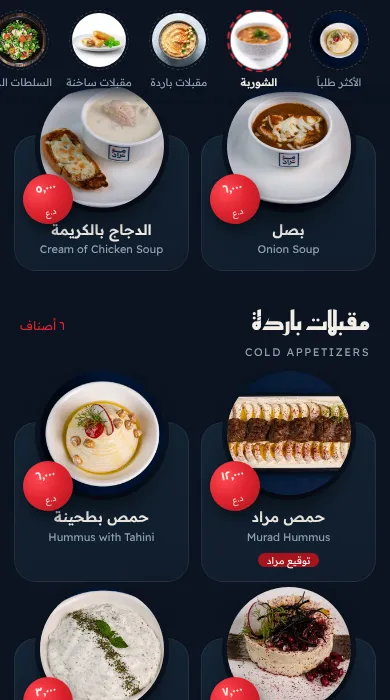
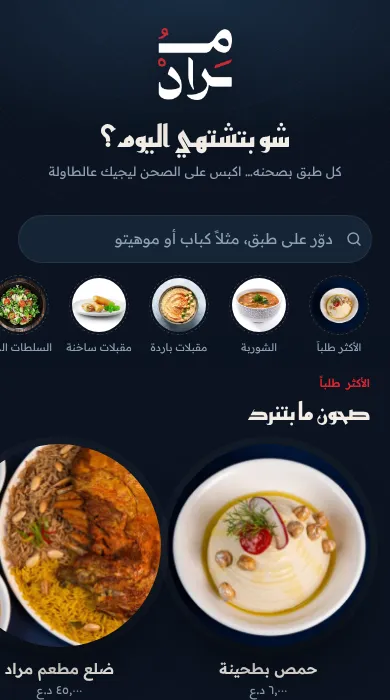
Plates demo: add search and show the full photo on tap
- Sticky search bar above the category rail. Matches dish names and
  section names in Arabic or English (ignores diacritics and alef/ya/ta
  marbuta variants), hides empty sections, shows a result count and an
  empty state.
- Tapping a dish now opens the whole, uncropped photo at full width: it
  arrives as a spinning circular plate, then opens up into the full image.

Claude-Session: https://claude.ai/code/session_01Ec21tTVKAZrGGPPNqkSPjV

diff --git a/demo/plates.html b/demo/plates.html
@@ -54,7 +54,7 @@ button{font:inherit;color:inherit;background:none;border:0;padding:0;cursor:poin
 /* sections */
 .group{margin:30px 20px 0;display:flex;align-items:center;gap:12px;color:var(--mute);font-size:12px;letter-spacing:2px}
 .group::before,.group::after{content:"";flex:1;height:1px;background:var(--line)}
-section.sec{padding:0 14px;scroll-margin-top:110px}
+section.sec{padding:0 14px;scroll-margin-top:170px}
 .sec-h{padding:22px 6px 0;display:flex;align-items:baseline;justify-content:space-between;gap:10px}
 .sec-h h3{font-family:var(--display);font-weight:700;font-size:26px;margin:0}
 .sec-h em{font-style:normal;color:var(--mute);font-size:11px;letter-spacing:1.5px;text-transform:uppercase}
@@ -82,22 +82,38 @@ section.sec{padding:0 14px;scroll-margin-top:110px}
 .foot{text-align:center;color:var(--mute);font-size:12px;padding:36px 20px calc(40px + env(safe-area-inset-bottom))}
 /* detail: the plate is served */
 .veil{position:fixed;inset:0;background:#05090fcc;backdrop-filter:blur(6px);-webkit-backdrop-filter:blur(6px);opacity:0;pointer-events:none;transition:opacity .35s;z-index:20}
-.serve{position:fixed;inset:auto 0 0;max-width:520px;margin:0 auto;z-index:21;padding:0 22px calc(28px + env(safe-area-inset-bottom));text-align:center;pointer-events:none}
-.serve .bigpl{width:min(76vw,330px);aspect-ratio:1;margin:0 auto -40px;border-radius:50%;overflow:hidden;box-shadow:0 40px 60px -20px #000,0 0 0 10px #ffffff10;transform:translateY(60vh) rotate(160deg) scale(.6);transition:transform .7s cubic-bezier(.2,.9,.25,1.05)}
-.serve .bigpl img{width:100%;height:100%;object-fit:cover;transform:scale(1.3)}
-.serve .card{background:var(--card);border:1px solid var(--line);border-radius:26px;padding:56px 20px 20px;transform:translateY(100%);transition:transform .45s cubic-bezier(.2,.8,.2,1)}
+.serve{position:fixed;inset:auto 0 0;max-width:560px;margin:0 auto;z-index:21;max-height:94svh;overflow-y:auto;scrollbar-width:none;padding:0 10px calc(10px + env(safe-area-inset-bottom));pointer-events:none}
+.serve::-webkit-scrollbar{display:none}
+/* the plate arrives spinning as a circle, then opens up into the whole, uncropped photo */
+.photo{position:relative;border-radius:22px;overflow:hidden;background:#0B1320;box-shadow:0 30px 50px -20px #000;
+  clip-path:circle(30% at 50% 50%);transform:translateY(55vh) rotate(-140deg) scale(.7);
+  transition:transform .4s .1s cubic-bezier(.5,0,.75,0),clip-path .25s}
+.photo img{display:block;width:100%;height:auto}
+.open .photo{transform:none;clip-path:circle(75% at 50% 50%);transition:transform .65s cubic-bezier(.2,.9,.25,1.05),clip-path .55s .5s cubic-bezier(.6,0,.2,1)}
+.serve .card{position:relative;margin-top:10px;background:var(--card);border:1px solid var(--line);border-radius:24px;padding:20px;text-align:center;transform:translateY(120%);transition:transform .45s cubic-bezier(.2,.8,.2,1)}
+.serve .card.solo{padding-top:52px}
 .serve h4{font-family:var(--display);font-size:26px;margin:0}
 .serve .en{color:var(--mute);font-size:13px;margin-top:2px}
 .serve .ds{color:#C9D3DC;font-size:14px;line-height:1.7;margin:12px 0 0}
 .serve .row{display:flex;align-items:center;justify-content:space-between;margin-top:18px;gap:10px}
 .serve .pr{font-size:22px;font-weight:600}.serve .pr i{font-style:normal;font-size:13px;color:var(--mute);margin-inline-start:4px}
 .add{background:var(--red);color:#fff;border-radius:30px;padding:12px 20px;font-weight:600;font-size:14px}
-.x{position:absolute;top:12px;inset-inline-start:12px;width:34px;height:34px;border-radius:50%;background:#ffffff14;display:grid;place-items:center;font-size:18px;line-height:1}
+.x{position:absolute;z-index:2;top:12px;inset-inline-start:12px;width:36px;height:36px;border-radius:50%;background:#0B1320b3;backdrop-filter:blur(6px);-webkit-backdrop-filter:blur(6px);display:grid;place-items:center;font-size:20px;line-height:1;color:#fff}
 .open .veil{opacity:1;pointer-events:auto}
 .open .serve{pointer-events:auto}
-.open .serve .bigpl{transform:none}
 .open .serve .card{transform:none}
-.serve .card{position:relative}
+/* search */
+[hidden]{display:none!important}
+.search{margin:0 18px 12px;display:flex;align-items:center;gap:10px;background:var(--card);border:1px solid var(--line);border-radius:26px;padding:0 8px 0 14px;height:48px;transition:border-color .2s}
+.search:focus-within{border-color:var(--red)}
+.search svg{width:18px;height:18px;stroke:var(--mute);fill:none;stroke-width:2;stroke-linecap:round;flex:none}
+.search input{flex:1;min-width:0;height:100%;background:none;border:0;outline:none;color:var(--cream);font:inherit;font-size:15px}
+.search input::placeholder{color:var(--mute)}
+.search input::-webkit-search-cancel-button{display:none}
+.search button{width:32px;height:32px;border-radius:50%;background:#ffffff14;font-size:17px;line-height:1;display:grid;place-items:center;flex:none}
+.found{padding:2px 20px 0;color:var(--mute);font-size:13px}
+.empty{text-align:center;color:var(--mute);padding:50px 30px;font-size:15px;line-height:1.8}
+.empty b{display:block;color:var(--cream);font-family:var(--display);font-size:22px;margin-bottom:4px}
 .toast{position:fixed;bottom:calc(20px + env(safe-area-inset-bottom));left:50%;transform:translate(-50%,120px);background:var(--cream);color:var(--cloth);padding:10px 18px;border-radius:30px;font-size:13px;font-weight:600;transition:transform .35s;z-index:30}
 .toast.on{transform:translate(-50%,0)}
 button:focus-visible{outline:2px solid var(--red);outline-offset:3px}
@@ -111,8 +127,13 @@ button:focus-visible{outline:2px solid var(--red);outline-offset:3px}
     <h1>شو بتشتهي اليوم؟</h1>
     <p>كل طبق بصحنه… اكبس على الصحن ليجيك عالطاولة</p>
   </header>
-  <nav class="rail"><div class="rail-in" id="rail"></div></nav>
+  <nav class="rail">
+    <div class="search"><svg viewBox="0 0 24 24" aria-hidden="true"><circle cx="11" cy="11" r="7"/><path d="M20 20l-3.5-3.5"/></svg><input id="q" type="search" placeholder="دوّر على طبق، مثلاً كباب أو موهيتو" autocomplete="off" aria-label="ابحث بالمنيو"><button id="qx" hidden aria-label="امسح البحث">×</button></div>
+    <div class="rail-in" id="rail"></div>
+  </nav>
+  <div class="found" id="found" hidden></div>
   <div id="list"></div>
+  <div class="empty" id="empty" hidden><b>ما لقينا هالطبق</b>جرّب اسم تاني، أو اكتبه بالإنجليزي</div>
   <div class="foot">الأسعار بالدينار العراقي · @murad.restaurant</div>
 </div>
 <div class="veil" id="veil"></div>
@@ -124,8 +145,9 @@ const $ = s => document.querySelector(s), E = MU.esc;
 let M;
 const GN = {kitchen: 'المطبخ', cafe: 'الكافيه', sweet: 'الحلو والأركيلة', feast: 'ولائم مراد'};
 const seal = p => p ? `<span class="seal">${MU.num(p)}<i>د.ع</i></span>` : `<span class="seal ask">حسب<br>الطلب</span>`;
+const norm = s => String(s || '').toLowerCase().replace(/[ً-ْـ]/g, '').replace(/[أإآ]/g, 'ا').replace(/[ىی]/g, 'ي').replace(/ة/g, 'ه').replace(/\s+/g, ' ');
 function dish(it, small) {
-  return `<button class="dish${it.i ? '' : ' nophoto'}" data-k="${it.key}">${it.i ? `<span class="pl"><img src="${it.i}" alt="" loading="lazy"></span>` : ''}${seal(it.p)}${it.s && !small ? '<span class="sig">توقيع مراد</span>' : ''}<b>${E(it.ar)}</b><small>${E(it.en)}</small></button>`;
+  return `<button class="dish${it.i ? '' : ' nophoto'}" data-k="${it.key}" data-q="${E(norm(it.ar + ' ' + it.en + ' ' + it.sec.ar + ' ' + it.sec.en))}">${it.i ? `<span class="pl"><img src="${it.i}" alt="" loading="lazy"></span>` : ''}${seal(it.p)}${it.s && !small ? '<span class="sig">توقيع مراد</span>' : ''}<b>${E(it.ar)}</b><small>${E(it.en)}</small></button>`;
 }
 function render() {
   $('#rail').innerHTML = `<button class="cat" data-t="best"><span class="disc"><img src="${M.best[0].i}" alt=""></span><span>الأكثر طلباً</span></button>` +
@@ -140,22 +162,40 @@ function render() {
   });
   $('#list').innerHTML = h;
   document.querySelectorAll('[data-k]').forEach(b => b.onclick = () => serve(b.dataset.k));
-  document.querySelectorAll('.cat').forEach(c => c.onclick = () => { const el = document.getElementById(c.dataset.t); scrollTo({top: el.offsetTop - 96, behavior: 'smooth'}); });
+  document.querySelectorAll('.cat').forEach(c => c.onclick = () => { const el = document.getElementById(c.dataset.t); scrollTo({top: el.offsetTop - 165, behavior: 'smooth'}); });
   const io = new IntersectionObserver(es => es.forEach(e => { if (!e.isIntersecting) return;
     document.querySelectorAll('.cat').forEach(c => c.classList.toggle('on', c.dataset.t === e.target.id));
     const on = $('.cat.on'); on && on.scrollIntoView({inline: 'center', block: 'nearest', behavior: 'smooth'});
-  }), {rootMargin: '-120px 0px -70% 0px'});
+  }), {rootMargin: '-180px 0px -65% 0px'});
   document.querySelectorAll('#best,section.sec').forEach(s => io.observe(s));
 }
 function serve(k) {
   const it = M.all.find(x => x.key === k);
-  $('#serve').innerHTML = `${it.i ? `<div class="bigpl"><img src="${it.i}" alt=""></div>` : ''}<div class="card"${it.i ? '' : ' style="padding-top:24px"'}><button class="x" id="x" aria-label="إغلاق">×</button>
-    <h4>${E(it.ar)}</h4><div class="en">${E(it.en)} · ${E(it.sec.ar)}</div>${it.d ? `<p class="ds">${E(it.d)}</p>` : ''}
+  const x = '<button class="x" id="x" aria-label="سكّر">×</button>';
+  $('#serve').innerHTML = `${it.i ? `<div class="photo">${x}<img src="${it.i}" alt="${E(it.ar)}"></div>` : ''}<div class="card${it.i ? '' : ' solo'}">${it.i ? '' : x}
+    <h4>${E(it.ar)}</h4><div class="en">${E(it.en)}، ${E(it.sec.ar)}</div>${it.d ? `<p class="ds">${E(it.d)}</p>` : ''}
     <div class="row"><span class="pr">${MU.price(it.p)}${it.p ? '<i>د.ع</i>' : ''}</span><button class="add" id="add">أضف لطلبيتي</button></div></div>`;
+  $('#serve').scrollTop = 0;
   requestAnimationFrame(() => requestAnimationFrame(() => document.body.classList.add('open')));
   $('#x').onclick = close;
-  $('#add').onclick = () => { MU.tray.add(k); toast(`انضاف ${it.ar} · بطلبيتك ${MU.num(MU.tray.count())}`); close(); };
+  $('#add').onclick = () => { MU.tray.add(k); toast(`انضاف ${it.ar} لطلبيتك`); close(); };
 }
+function search() {
+  if (!M) return;
+  const q = norm($('#q').value.trim()); let n = 0;
+  $('#qx').hidden = !q; $('#best').hidden = !!q; $('.cat[data-t="best"]').hidden = !!q;
+  document.querySelectorAll('section.sec').forEach(sec => {
+    let c = 0; sec.querySelectorAll('.dish').forEach(d => { const ok = !q || d.dataset.q.includes(q); d.hidden = !ok; if (ok) c++; });
+    const ne = sec.querySelector('.n'); if (!ne.dataset.t) ne.dataset.t = ne.textContent; ne.textContent = q ? MU.num(c) + ' من ' + MU.num(sec.querySelectorAll('.dish').length) : ne.dataset.t;
+    sec.hidden = !c; n += c; const cat = $(`.cat[data-t="${sec.id}"]`); if (cat) cat.hidden = !c;
+  });
+  document.querySelectorAll('.group').forEach(g => { let el = g.nextElementSibling, any = false;
+    while (el && !el.classList.contains('group')) { if (el.matches('section.sec') && !el.hidden) any = true; el = el.nextElementSibling; } g.hidden = !any; });
+  $('#empty').hidden = !q || n > 0;
+  $('#found').hidden = !q || !n; $('#found').textContent = `لقينا ${MU.num(n)} ${n === 1 ? 'طبق' : n === 2 ? 'طبقين' : n <= 10 ? 'أطباق' : 'طبق'}`;
+}
+$('#q').addEventListener('input', () => { search(); const top = $('.hero').offsetHeight; if (scrollY > top) scrollTo({top}); });
+$('#qx').onclick = () => { $('#q').value = ''; search(); $('#q').focus(); };
 function close() { document.body.classList.remove('open'); }
 function toast(t) { const el = $('#toast'); el.textContent = t; el.classList.add('on'); clearTimeout(el._t); el._t = setTimeout(() => el.classList.remove('on'), 2200); }
 $('#veil').onclick = close;
